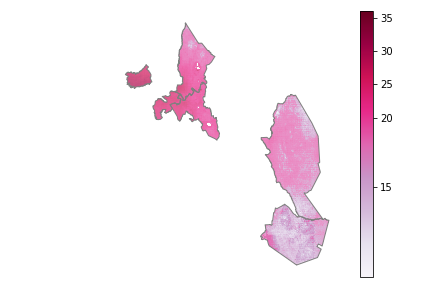
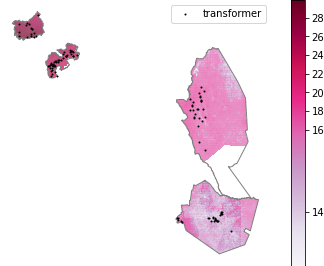
new figures

diff --git a/src/figures.py b/src/figures.py
@@ -16,20 +16,32 @@ import statsmodels.api as sm
 wd = Path.cwd()
 path_figure = wd.parent/'out'/'figures'
 
+# load data
+df = pd.read_csv(wd.parent/'out'/'data'/'dataset_all.csv')
+# prepare data
+#df = df[df.pop_dens != 0] # drop grid cells with no population
+df = df[df.nl.notnull()] # first 3 months of 2012 no data for nightlight
+df = df[df.pop_dens > 0] # drop grid cells with no population
+#df = df[df.date_first_vend_prepaid.notnull()]
+#df = df[df.dist_tr <= 0.02]
+counties = df[df.date_first_vend_prepaid.notnull()].county.unique().tolist()
+df = df[df.county.isin(counties)]
+
+
 # load Kenya shapefile
 shp_file = wd.parent/'data'/'shp'/'Kenya.zip'
 Kenya = gpd.read_file(shp_file)
 Kenya = Kenya[['NAME_1','geometry']]
+Kenya_all = Kenya.copy()
 Kenya = Kenya.rename(columns={'NAME_1':'county'})
-counties = ['Kakamega','Nakuru','Kericho','Baringo','Taita Taveta','Kitui']
-Kenya = Kenya[Kenya.county.isin(counties)]
+Kenya = Kenya[Kenya.county.str.lower().isin(counties)]
+Kenya['centroid'] = Kenya.centroid
 
-# load data
-df = pd.read_csv(wd.parent/'out'/'data'/'dataset_all.csv')
+### transformer 
+df_trans = df.loc[df.date_first_vend_prepaid.notnull(),['geometry_transformer','county']].drop_duplicates().reset_index(drop=True).dropna()
+gdf_trans = gpd.GeoDataFrame(df_trans, geometry=df_trans['geometry_transformer'].apply(wkt.loads))
 
-# prepare data
-#df = df[df.pop_dens != 0] # drop grid cells with no population
-df = df[df.nl.notnull()] # first 3 months of 2012 no data for nightlight
+'''
 # group grid cells by
 # nothing if neither lmcp, nonlmcp, preexisting
 df['group'] = np.nan
@@ -41,27 +53,63 @@ df.loc[(df.len_nonlmcp >= df.len_lmcp) & (df.len_nonlmcp >= df.len_preexisting) 
 # #preexisting > #lmcp + #nonlmcp
 df.loc[(df.len_preexisting >= df.len_lmcp) & (df.len_preexisting >= df.len_nonlmcp) & df.group.isnull(), 'group'] = 'preexisting'
 #gdf = gpd.GeoDataFrame(df, geometry=df['geometry'].apply(wkt.loads))
-
+'''
 agg_yearly = df.groupby(['index','year'])[['pol','nl']].mean().reset_index()
 df_yearly = df.drop(['pol','nl','yearmonth'],axis=1).drop_duplicates().merge(agg_yearly, how='left', on=['index','year'])
 
 gdf_yearly = gpd.GeoDataFrame(df_yearly, geometry=df_yearly['geometry'].apply(wkt.loads))
 
-# plot pop dens of 2015
-for y in [2015]:
-    data = gdf_yearly[gdf_yearly.year == y]
-    for v in ['pop_dens','pol','nl']:
-        vmin = data[[v]].min()[0]
-        vmax = data[[v]].max()[0]
-        vcenter = data[[v]].quantile(0.5)[0]
-        divnorm = colors.TwoSlopeNorm(vmin=vmin, vcenter=vcenter, vmax=vmax)
-        fig, ax = plt.subplots()
-        data.plot(column=v, ax=ax, alpha=.7, cmap='PuRd', norm=divnorm, legend=True)
-        Kenya.plot(ax=ax, facecolor='None', edgecolor='grey')
-        ax.set_axis_off()
-        plt.tight_layout()
-        fig.savefig(path_figure/f'map_{y}_{v}')
+# plot Kenya and highlight counties for analysis
+fig, ax = plt.subplots()
+Kenya_all.plot(ax=ax, facecolor='None', edgecolor='grey', alpha=.5)
+Kenya.plot(ax=ax, facecolor='None', edgecolor='black', alpha=.7)
+for x, y, label in zip(Kenya.centroid.x, Kenya.centroid.y, Kenya.county):
+    ax.annotate(label, xy=(x, y), xytext=(7, 0), textcoords="offset points", fontweight="bold")
+ax.set_axis_off()
+fig.savefig(path_figure/f'map_Kenya',bbox_inches='tight',pad_inches = 0)
 
+# plot transformer locations
+fig, ax = plt.subplots()
+Kenya.plot(ax=ax, facecolor='None', edgecolor='grey', alpha=.7)
+gdf_trans.plot(ax=ax, color='black', markersize=1, label='transformer')
+ax.set_axis_off()
+plt.tight_layout()
+plt.legend()
+fig.savefig(path_figure/f'map_Transformers',bbox_inches='tight',pad_inches = 0)
+
+# plot pop dens of 2015
+data = gdf_yearly[gdf_yearly.year == 2015]
+v = 'pop_dens'
+vmin = data[[v]].min()[0]
+vmax = data[[v]].max()[0]
+vcenter = data[[v]].quantile(0.5)[0]
+divnorm = colors.TwoSlopeNorm(vmin=vmin, vcenter=vcenter, vmax=vmax)
+fig, ax = plt.subplots()
+data.plot(column=v, ax=ax, alpha=.7, cmap='PuBuGn', norm=divnorm, legend=True)
+Kenya.plot(ax=ax, facecolor='None', edgecolor='grey')
+ax.set_axis_off()
+plt.tight_layout()
+fig.savefig(path_figure/f'map_2015_pop_dens',bbox_inches='tight',pad_inches = 0)
+
+# plot nightlight and pollution
+years = [2015, 2020]
+for v in ['pol','nl']:
+    data = gdf_yearly
+    vmin = data[[v]].min()[0]
+    vmax = data[[v]].max()[0]
+    vcenter = data[[v]].quantile(0.5)[0]
+    divnorm = colors.TwoSlopeNorm(vmin=vmin, vcenter=vcenter, vmax=vmax)
+    fig, axes = plt.subplots(ncols=2, sharey=True, sharex=True,constrained_layout = True, figsize=(7,5))
+    for y in range(len(years)):
+        datay = data[data.year == years[y]] #'PuRd''
+        datay.plot(column=v, ax=axes[y], alpha=.7, cmap='PuBuGn', norm=divnorm) 
+        Kenya.plot(ax=axes[y], facecolor='None', edgecolor='grey')
+        axes[y].set_axis_off()
+        #gdf_trans.plot(ax=axes[y], color='black', markersize=1, label='transformer')
+    patch_col = axes[0].collections[0]
+    cb = fig.colorbar(patch_col, ax=axes, shrink=.5)
+    fig.savefig(path_figure/f'map_{v}',bbox_inches='tight',pad_inches = 0, dpi=200)
+'''
 # plot map of groups
 data = df[df.yearmonth==201204]
 data = gpd.GeoDataFrame(data, geometry=data['geometry'].apply(wkt.loads))
@@ -72,11 +120,11 @@ Kenya.plot(ax=ax, facecolor='None', edgecolor='grey')
 ax.set_axis_off()
 plt.tight_layout()
 fig.savefig(path_figure/'map_electricity.png')
-
-
+'''
 
 # residualize pollution
-data = df[df.pop_dens != 0].set_index(['index','yearmonth'])
+data = df[df.date_first_vend_prepaid.notnull() & (df.dist_tr <= 0.02)]
+data = data.set_index(['index','yearmonth'])
 exog = sm.add_constant(data['pop_dens'])
 dep = data['pol']
 mod = PanelOLS(dependent=dep,exog=exog, drop_absorbed=True)
@@ -91,7 +139,7 @@ data = data.merge(pol_residuals, left_index=True, right_index=True).reset_index(
 
 # time series of all groups
 # drop grid cells with no population
-ts_group = data.groupby(['yearmonth','group'])[['nl', 'pol', 'pol_residuals']].median().reset_index()
+ts_group = data.groupby(['yearmonth'])[['nl', 'pol', 'pol_residuals']].median().reset_index()
 ts_group['yearmonth'] = pd.to_datetime(ts_group['yearmonth'], format='%Y%m')
 # set cmap colors
 cmap = plt.get_cmap('Accent')
@@ -100,10 +148,8 @@ cls = [colors.to_hex(x) for x in cls]
 
 for x in ['nl','pol', 'pol_residuals']:
     fig, ax = plt.subplots()    
-    ax.set_prop_cycle(color=cls)
-    for g in ts_group.group.unique().tolist():
-        data= ts_group[ts_group.group==g]
-        ax.plot('yearmonth',x, data=data, label=g)
+    #ax.set_prop_cycle(color=cls)
+    ax.plot('yearmonth',x, data=ts_group, label='')
     ax.legend()
     plt.tight_layout()
     fig.savefig(path_figure/f'ts_{x}_median.png')
